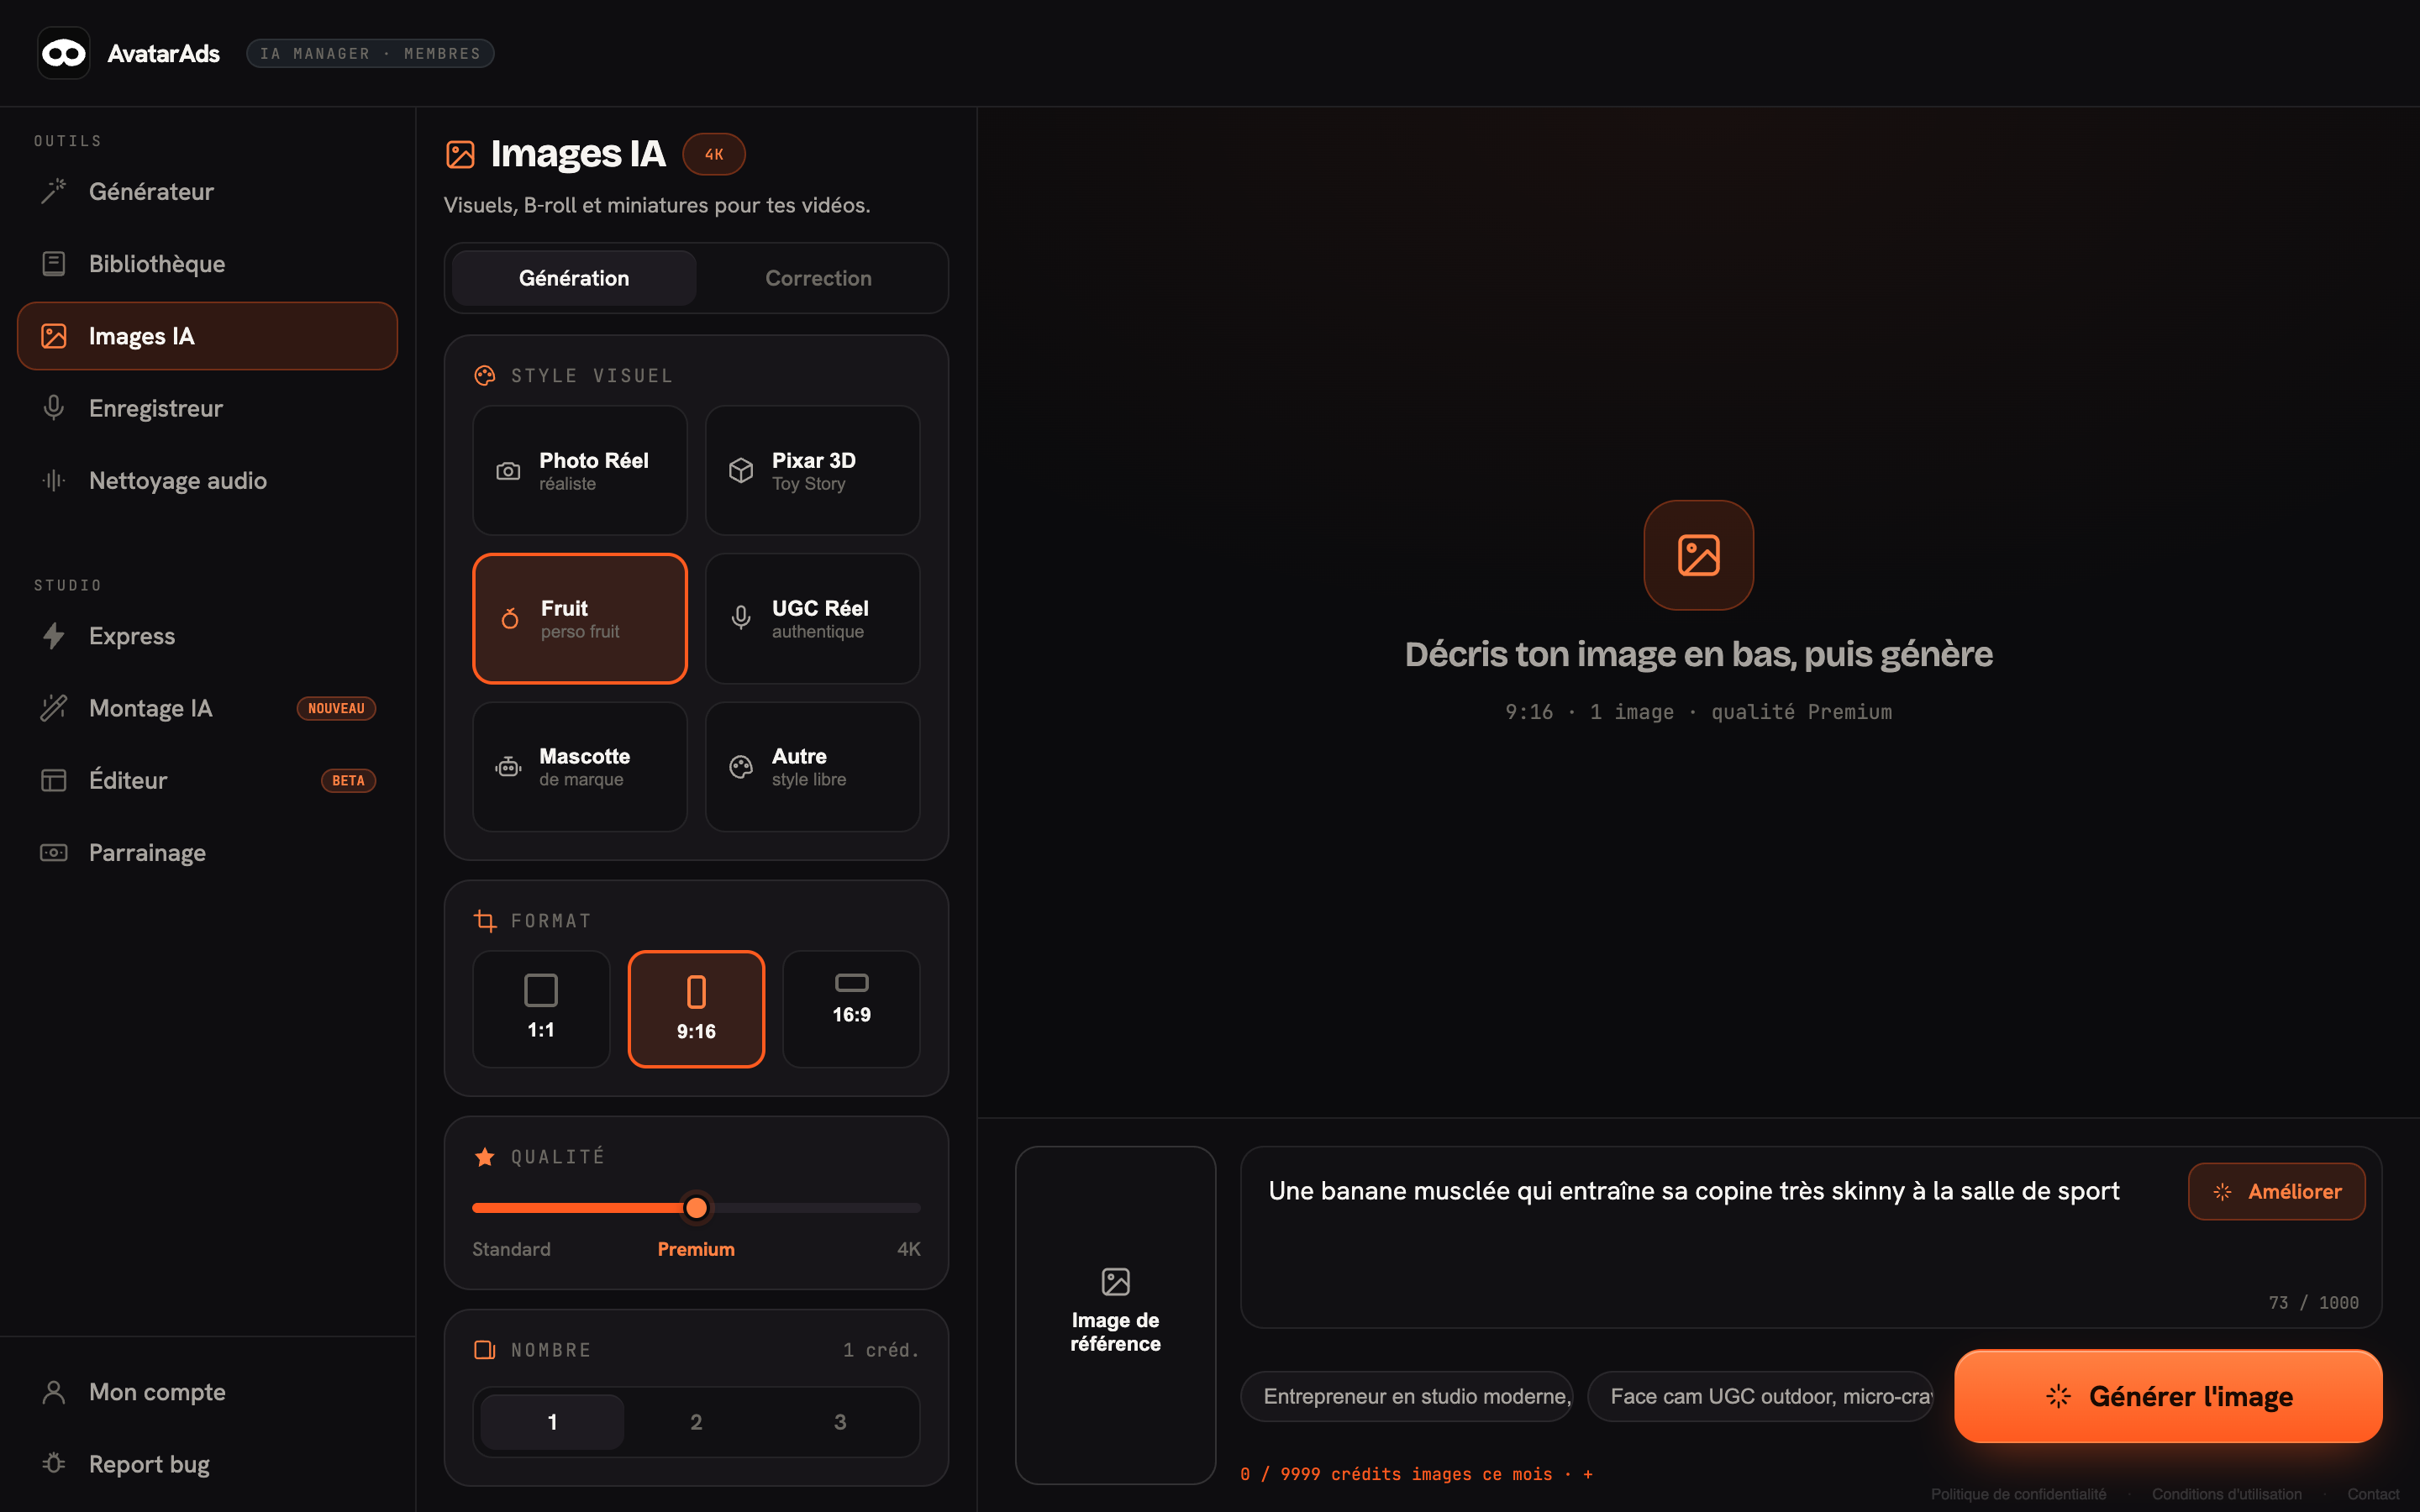
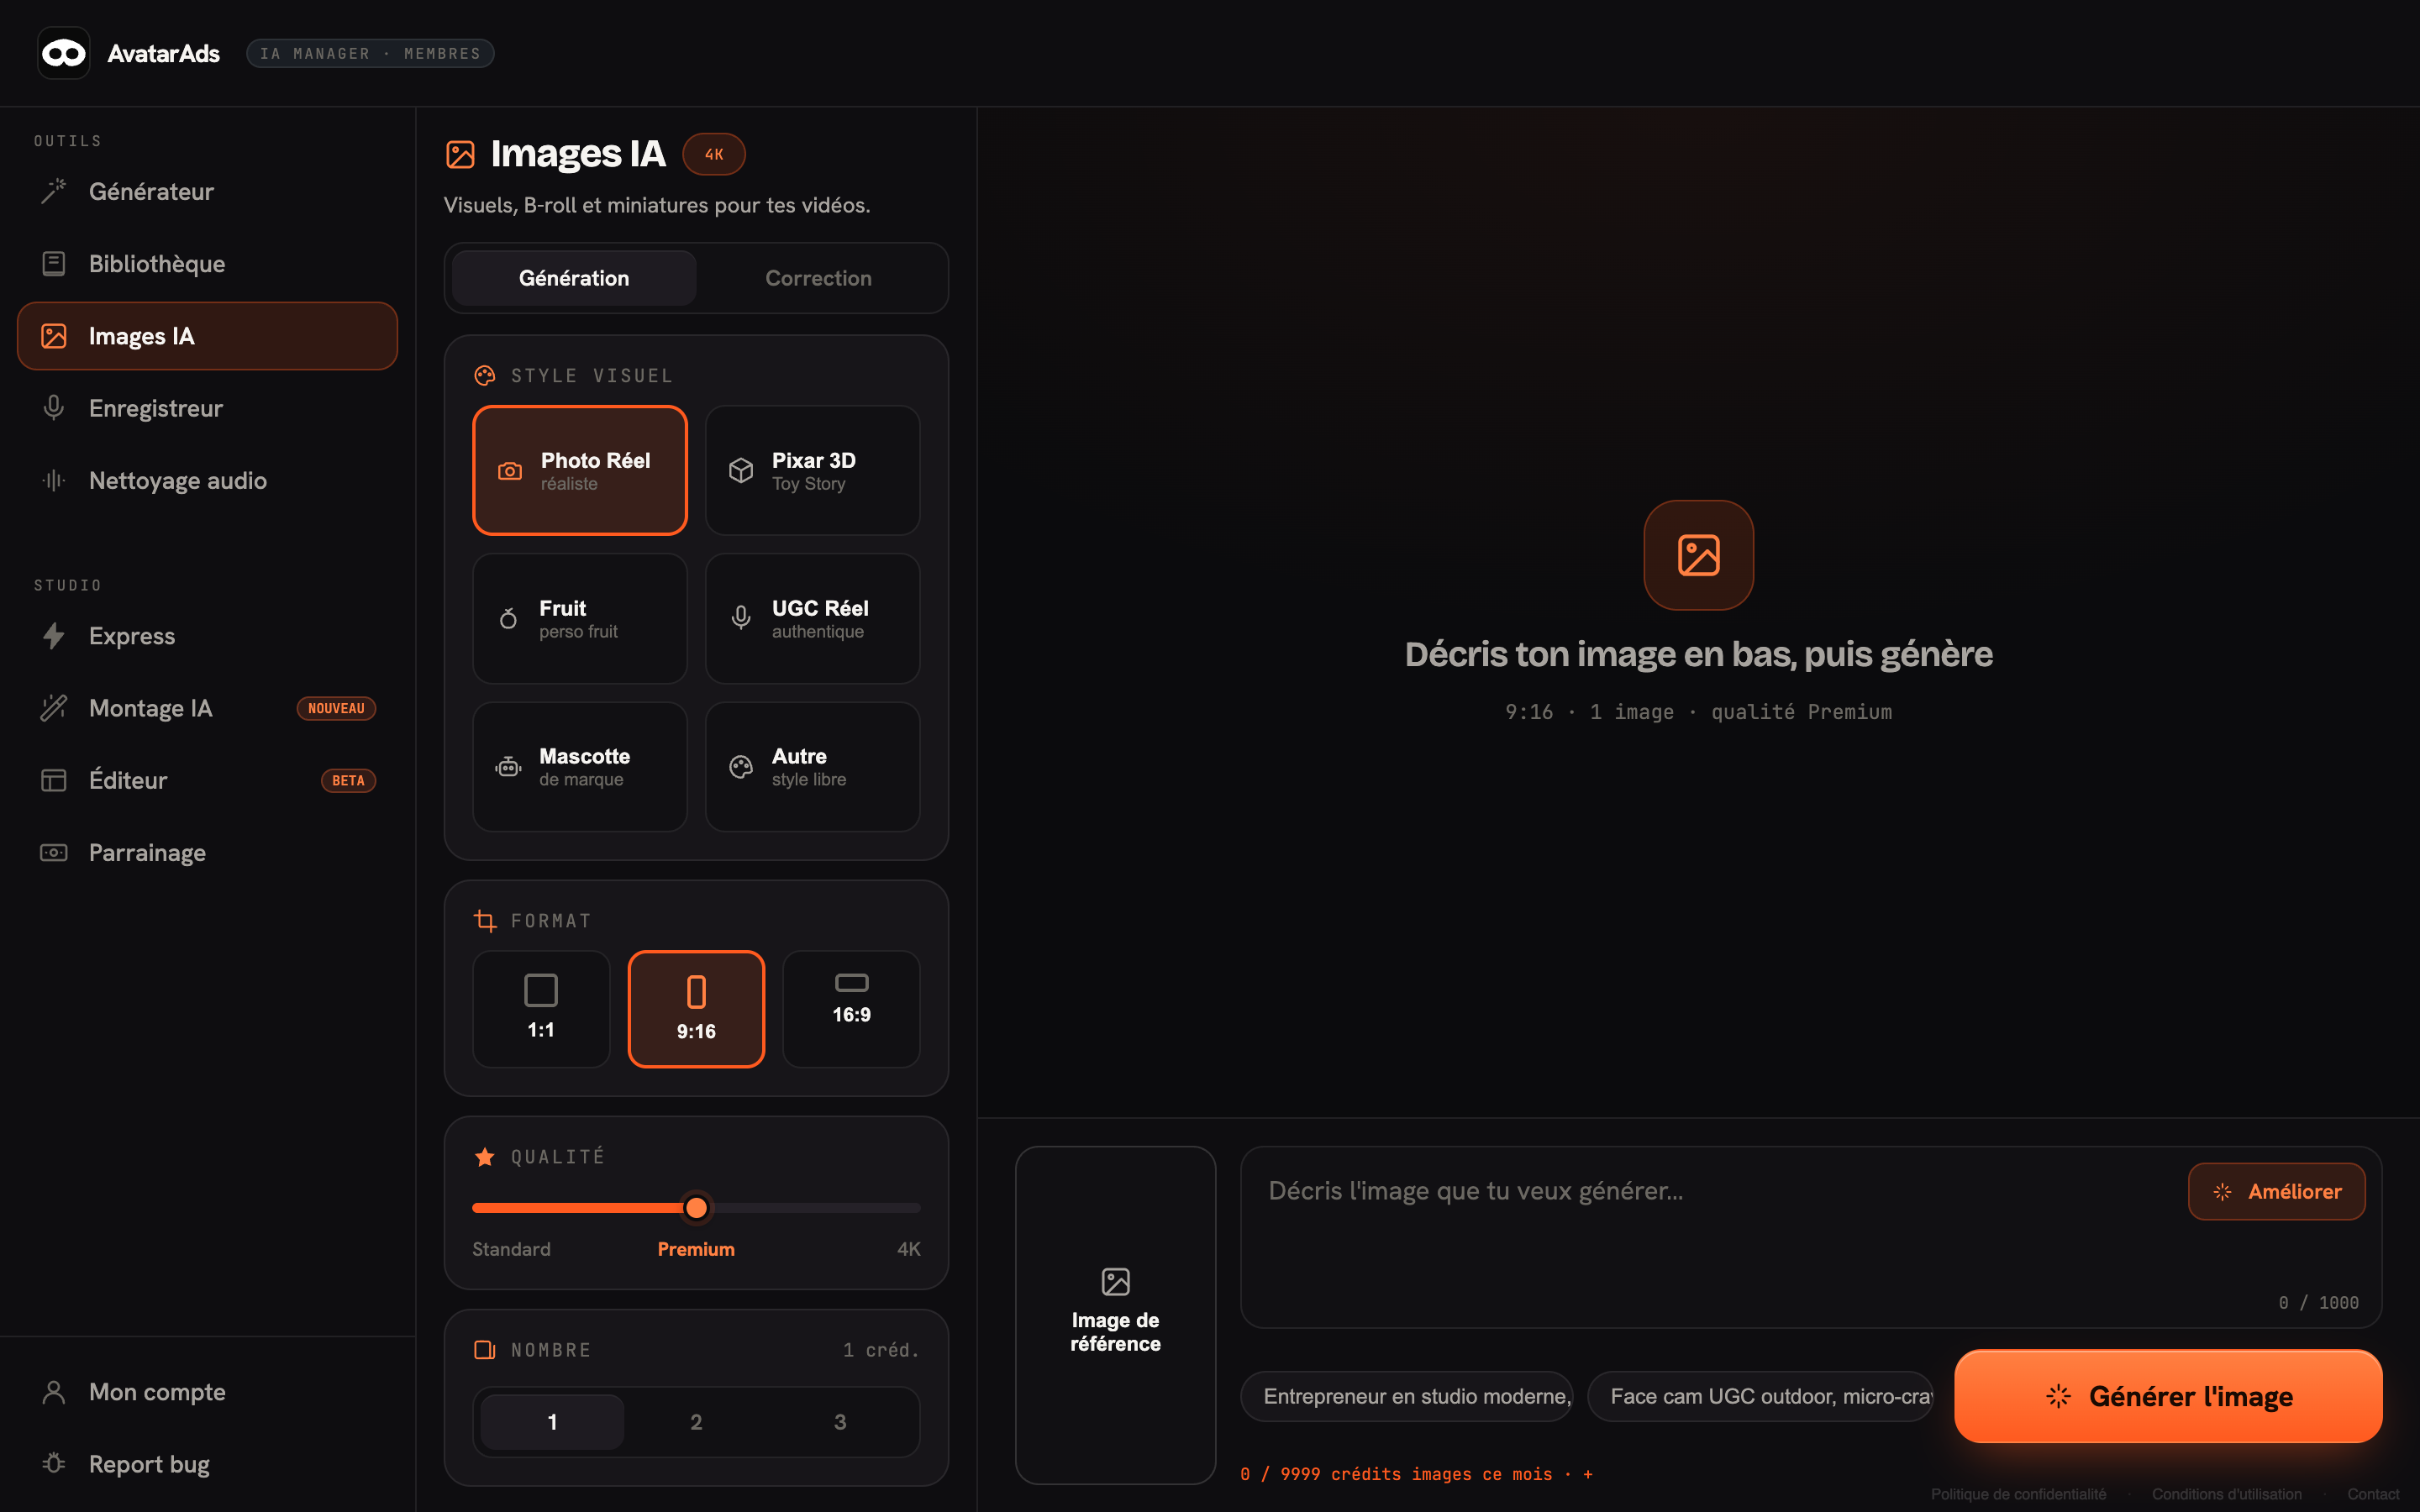
feat(#135): captures refaites dans le bon état + 18 zones mesurées sur la page
Axel a fourni les captures manquantes. Plutôt que de corriger au-dessus d'images
qui contredisaient son audio, tout est repris à la source.

CAPTURES — render-worker/recapture.cjs (nouveau, rejouable)
Les deux écrans sont recapturés dans l'état qu'il montre : champs VIDES,
« Photo Réel » sélectionné, 9:16 sélectionné. C'est ce qui débloque le reste :
· plus de « banane musclée » gravée sous le texte qu'on écrit
· « Photo Réel » est bien la case active quand il la nomme

ZONES — 18 au lieu de 6, mesurées sur la PAGE (getBoundingClientRect), pas
estimées à l'œil sur l'image :
  images-ia  menu · photo-reel · pixar · fruit · ugc · format · prompt · generer
  express    menu · realiste · cartoon · portrait · duree · qualite · voix ·
             ajouter · prompt · generer
Trois d'entre elles avaient attrapé le mauvais élément (le sélecteur par libellé
tombait sur la carte explicative « Rédige ton script » plutôt que sur le champ) —
détecté en dessinant les cadres sur les captures, puis corrigé et revérifié.

COUVERTURE DES ÉTAPES — Axel : « quand je dis tu vas aller dans Images IA y'a pas
d'animation, format TikTok 9:16 pareil ». Elles étaient proposées par le modèle
mais supprimées par le seuil de durée : il enchaîne les étapes vite. Seuil ramené
à 1,3 s pour un simple cadre (3,2 s quand du texte s'écrit) et fenêtre de
travelling élargie à 2 s. Résultat : 8 étapes proposées → 5 plans, contre 1 avant.
[…]

Changed region(s): [[0.1875, 0.2489, 0.2812, 0.4667], [0.5312, 0.7778, 0.875, 0.8089]]

diff --git a/supabase/functions/orchestrate/index.ts b/supabase/functions/orchestrate/index.ts
@@ -174,19 +174,16 @@ const EMOJIS = ['airplane', 'alarm_clock', 'bank', 'bar_chart', 'battery', 'beac
 const BED_NAMES = ['grave', 'tension', 'montee']
 const SECTION_ROLES = ['hook', 'benefice', 'preuve', 'cta', 'outro']
 const MOODS = ['intense', 'dynamique', 'chill']
-// Catalogue des captures d'AvatarAds et des zones MESUREES sur chacune (fractions
-// de l'image). Le chef d'orchestre ne connait que les NOMS ; les coordonnees ne
-// sortent jamais du serveur, donc il ne peut pas inventer un cadrage faux.
+// Captures d'AvatarAds et zones MESUREES sur la page elle-meme (script
+// render-worker/recapture.cjs), pas estimees a l'oeil sur l'image. Les captures
+// sont prises dans l'etat qu'Axel a valide : champs VIDES et « Photo Reel » +
+// 9:16 selectionnes. Le chef d'orchestre ne connait que les NOMS — les
+// coordonnees ne sortent jamais du serveur, un cadrage invente est impossible.
 const TUTO: Record<string, Record<string, number[]>> = {
-  // 'photo-reel' est mesure sur la capture : meme colonne que 'fruit', une ligne
-  // au-dessus (Axel disait « selectionner photo reel » et on encadrait Fruit).
-  'images-ia': { 'photo-reel': [0.240, 0.309, 0.089, 0.087], fruit: [0.240, 0.409, 0.089, 0.087], format: [0.288, 0.668, 0.057, 0.078], prompt: [0.749, 0.818, 0.472, 0.121] },
-  // 'ajouter' etait a cote : l'icone « Ajoute tes images » est mesuree a 0,833/0,274
-  // sur la capture (Axel : « l'ajout d'avatar zoom sur n'importe quoi »).
-  'express': { menu: [0.086, 0.421, 0.150, 0.055], ajouter: [0.833, 0.300, 0.150, 0.160], prompt: [0.783, 0.761, 0.400, 0.110], generer: [0.886, 0.936, 0.150, 0.045] },
-  'generateur': { script: [0.500, 0.400, 0.500, 0.200], lancer: [0.860, 0.900, 0.180, 0.060] },
+  'images-ia': { 'menu': [0.288, 0.117, 0.209, 0.059], 'photo-reel': [0.240, 0.311, 0.089, 0.087], 'pixar': [0.336, 0.311, 0.089, 0.087], 'fruit': [0.240, 0.409, 0.089, 0.087], 'ugc': [0.336, 0.409, 0.089, 0.087], 'format': [0.288, 0.666, 0.057, 0.078], 'prompt': [0.749, 0.818, 0.472, 0.121], 'generer': [0.896, 0.923, 0.177, 0.062] },
+  'express': { 'menu': [0.290, 0.133, 0.210, 0.084], 'realiste': [0.242, 0.272, 0.091, 0.071], 'cartoon': [0.338, 0.272, 0.091, 0.071], 'portrait': [0.242, 0.501, 0.091, 0.065], 'duree': [0.290, 0.620, 0.210, 0.075], 'qualite': [0.290, 0.743, 0.210, 0.122], 'voix': [0.290, 0.918, 0.187, 0.067], 'ajouter': [0.501, 0.786, 0.146, 0.217], 'prompt': [0.786, 0.759, 0.394, 0.151], 'generer': [0.886, 0.936, 0.189, 0.076] },
 }
-const TUTO_FILE: Record<string, string> = { 'images-ia': '01-imagesia', 'express': '02-express', 'generateur': '03-generateur' }
+const TUTO_FILE: Record<string, string> = { 'images-ia': '01-imagesia', 'express': '02-express' }
 
 const ANIMS = ['split', 'voice', 'list', 'grow', 'compare', 'type', 'phone', 'clock', 'avatar', 'logo', 'faceless', 'money', 'idea', 'target', 'lock', 'search', 'rocket', 'network', 'check',
   'swipe', 'views', 'engage', 'calendar', 'upload', 'stack', 'swap', 'cut', 'steps', 'toggle']
@@ -451,9 +448,9 @@ LES 4 RYTHMES (le coeur du format) : une bonne video n'est JAMAIS un seul cadre 
   C'est le champ le plus utile que tu remplis : le serveur s'en sert pour poser les animations au bon endroit, la ou un simple mot-cle se tromperait. Exemple sur « tu gagnes du temps et tu produis dix fois plus » : "gagnes|clock", "produis|stack", "dix|grow".
   Un mot vide de sens (un connecteur, un article) n'a rien a faire dans cette liste.
   DEMO DANS L'APPLICATION (champ "tuto"). Si — et SEULEMENT si — l'utilisateur EXPLIQUE COMMENT FAIRE quelque chose dans son outil (« tu vas dans X », « tu selectionnes Y », « tu ecris ton prompt »), montre son vrai ecran plutot qu'une animation abstraite. Ecris "mot|ecran|zone" avec le mot EXACT prononce, et un ecran + une zone pris DANS CETTE LISTE, rien d'autre :
-    images-ia  -> photo-reel | fruit | format | prompt
-    express    -> menu | ajouter | prompt | generer
-    generateur -> script | lancer
+    images-ia  -> menu | photo-reel | pixar | fruit | ugc | format | prompt | generer
+    express    -> menu | realiste | cartoon | portrait | duree | qualite | voix | ajouter | prompt | generer
+  COUVRE CHAQUE ETAPE QU'IL DECRIT, dans l'ordre, sans en sauter : s'il enumere « tu vas dans Images IA, tu selectionnes photo reel, tu mets le format TikTok, tu decris ton image », cela fait QUATRE lignes (menu, photo-reel, format, prompt). Une etape decrite sans ligne, c'est un moment de la video ou l'on ne montre rien.
   QUATRIEME CHAMP, seulement sur une zone "prompt" : ce que l'utilisateur taperait dans le champ. Ecris-le court (moins de 60 caracteres) et dans SES mots — il s'ecrira lettre par lettre dans le vrai champ de l'app pendant qu'il parle, avec le bruit du clavier. Laisse vide sur toutes les autres zones.
   ATTENTION AU MOT EXACT : s'il dit « selectionner photo reel », la zone est photo-reel, pas fruit. Ne prends pas la case qui est deja selectionnee sur la capture, prends CELLE QU'IL NOMME.
   Une ligne par etape decrite, dans l'ordre du script. Si l'audio ne decrit AUCUNE manipulation dans l'outil, laisse la liste VIDE — ne montre jamais une interface pour meubler.
@@ -1188,7 +1185,7 @@ export function validatePlan(plan: Plan, duration: number, assetIds: string[], w
       // l'identique. Une (ecran, zone) deja montree est ignoree — le modele
       // propose souvent plusieurs mots qui pointent vers la meme case.
       if (tutoShots.some((sh) => sh.screen === screen && (sh.z === rect || sh.z2 === rect))) continue
-      if (prev && prev.screen === screen && !prev.z2 && w.start - prev.t < 1.2) prev.z2 = rect
+      if (prev && prev.screen === screen && !prev.z2 && w.start - prev.t < 2.0) prev.z2 = rect
       else tutoShots.push({ t: w.start, screen, z: rect, text: zone.includes('prompt') ? String(tu.text || '').slice(0, 60) : '' })
     }
     for (let i = 0; i < tutoShots.length; i++) {
@@ -1199,9 +1196,11 @@ export function validatePlan(plan: Plan, duration: number, assetIds: string[], w
       // autant de temps ». On tient 5 s quand du texte s'ecrit (il faut le lire),
       // 3,5 s sinon.
       const end = r2(Math.min(start + (sh.text ? 5 : 3.5), nextT - 0.3, D - 0.4))
-      // UN PLAN TROP COURT NE SERT A RIEN : sous 2,2 s on n'a pas le temps de lire
-      // ce qui est encadre. Mieux vaut sauter l'etape que la montrer une seconde.
-      if (end <= start + (sh.text ? 3.2 : 2.2)) continue
+      // Un plan doit rester lisible, mais Axel enchaine les etapes vite (« tu vas
+      // dans Images IA, tu selectionnes photo reel, tu mets le format ») : un seuil
+      // trop haut supprimait justement les etapes qu'il reprochait de ne pas voir.
+      // 1,3 s suffit pour un simple cadre ; il en faut 3,2 quand du texte s'ecrit.
+      if (end <= start + (sh.text ? 3.2 : 1.3)) continue
       const z = sh.z, z2 = sh.z2
       slides.push({
         type: 'card', layout: 'full', motif: '', anim: 'screen', emoji: '',